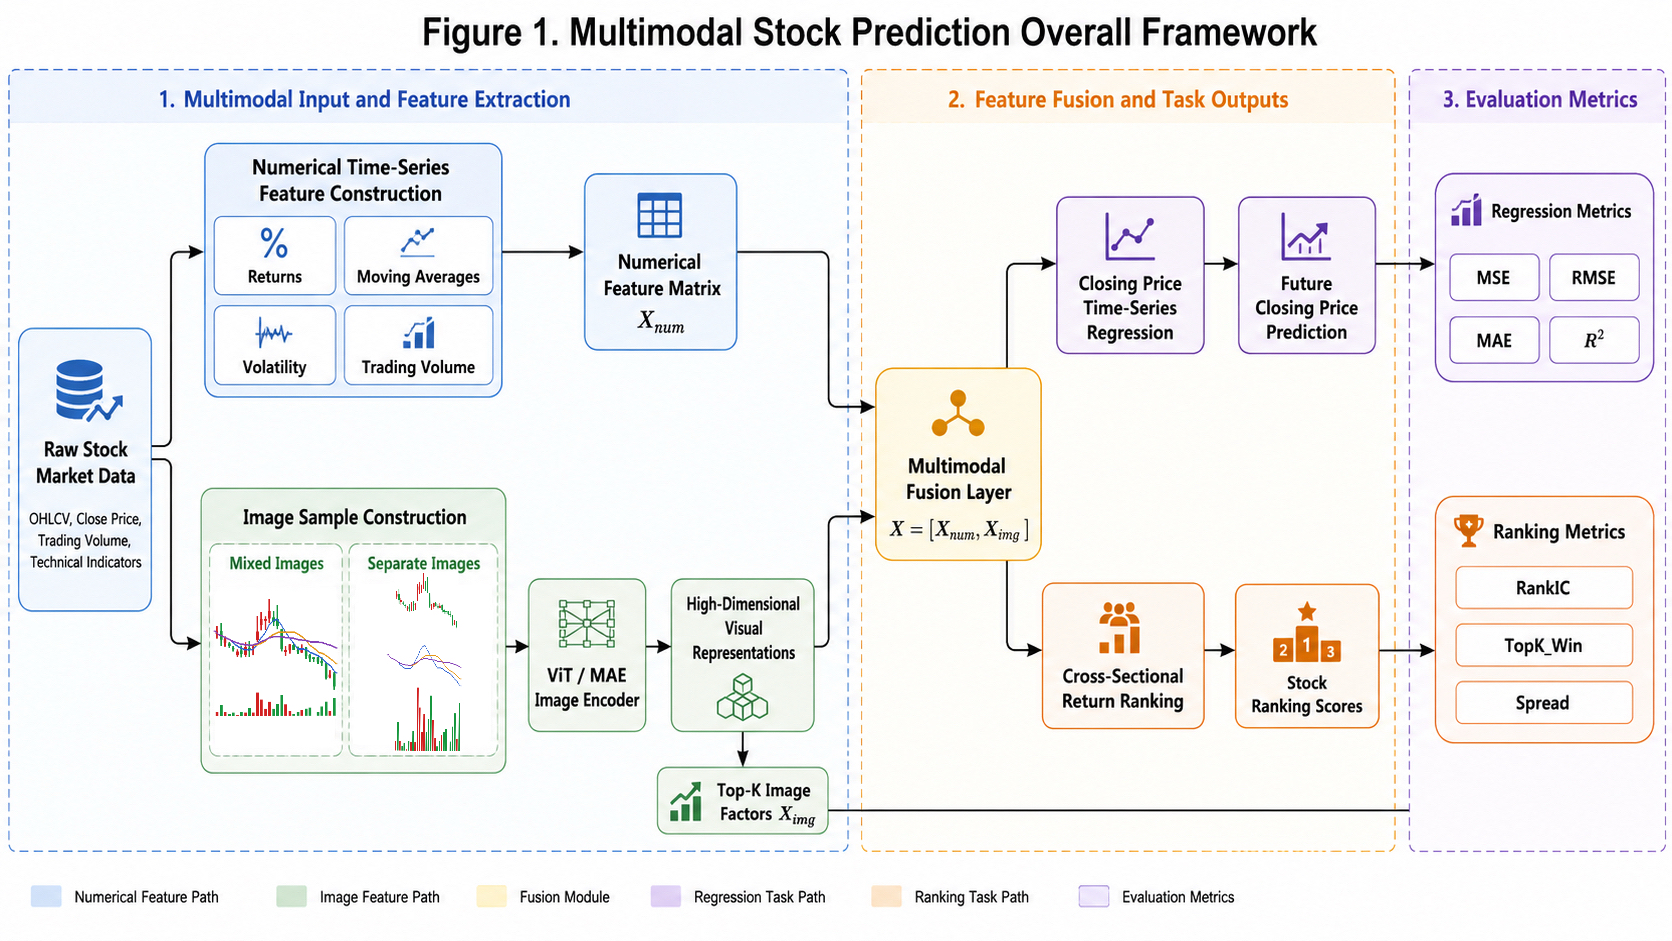
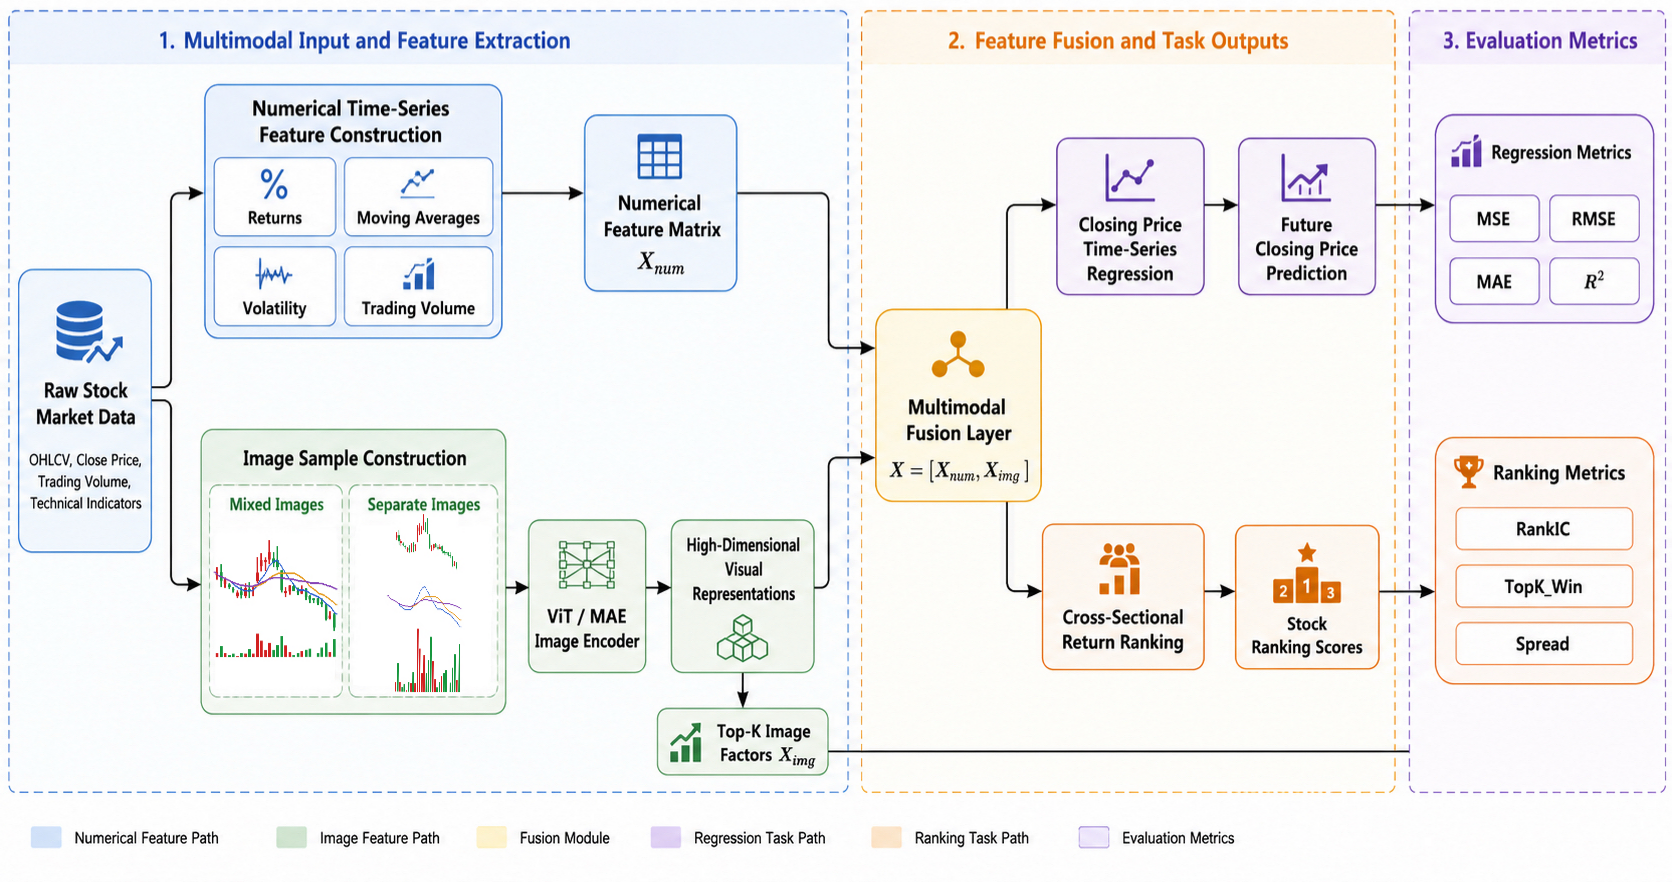
Reorder and refresh framework figures

diff --git a/README.md b/README.md
@@ -14,7 +14,13 @@
 6. 按时间顺序进行 70%/15%/15% 的训练、验证和测试划分，避免未来信息进入训练集。
 7. 分别评估收盘价/收益率回归与每日股票横截面排序。
 
-![多模态股票预测整体框架](docs/figures/overall_multimodal_framework.jpg)
+![LSTM 基线与多模态股票预测系统级框架](docs/figures/system_level_overview.png)
+
+## 模型细节
+
+![多模态股票预测特征提取、融合与双任务框架](docs/figures/overall_multimodal_framework.jpg)
+
+![HGB 横截面排序模型具体实现](docs/figures/hgb_ranking_implementation.png)
 
 ## 主要结果
 
@@ -66,8 +72,6 @@
 
 TopK_Win 中的 K 为每日股票池的前 10%，并非固定股票数量。
 
-![HGB 横截面排序模型具体实现](docs/figures/hgb_ranking_implementation.png)
-
 <table align="center">
   <thead>
     <tr>
@@ -87,8 +91,6 @@ TopK_Win 中的 K 为每日股票池的前 10%，并非固定股票数量。
 </table>
 
 HGB 方案取得最高 RankIC 和 TopK_Win，是主排序模型；CatBoost 获得最高 Spread。表中的 `—` 表示排序方案不输出收益率点预测，因此不报告 Return MSE，并非实验缺失。
-
-![股票预测系统级框架](docs/figures/system_level_overview.png)
 
 ## 仓库结构
 
